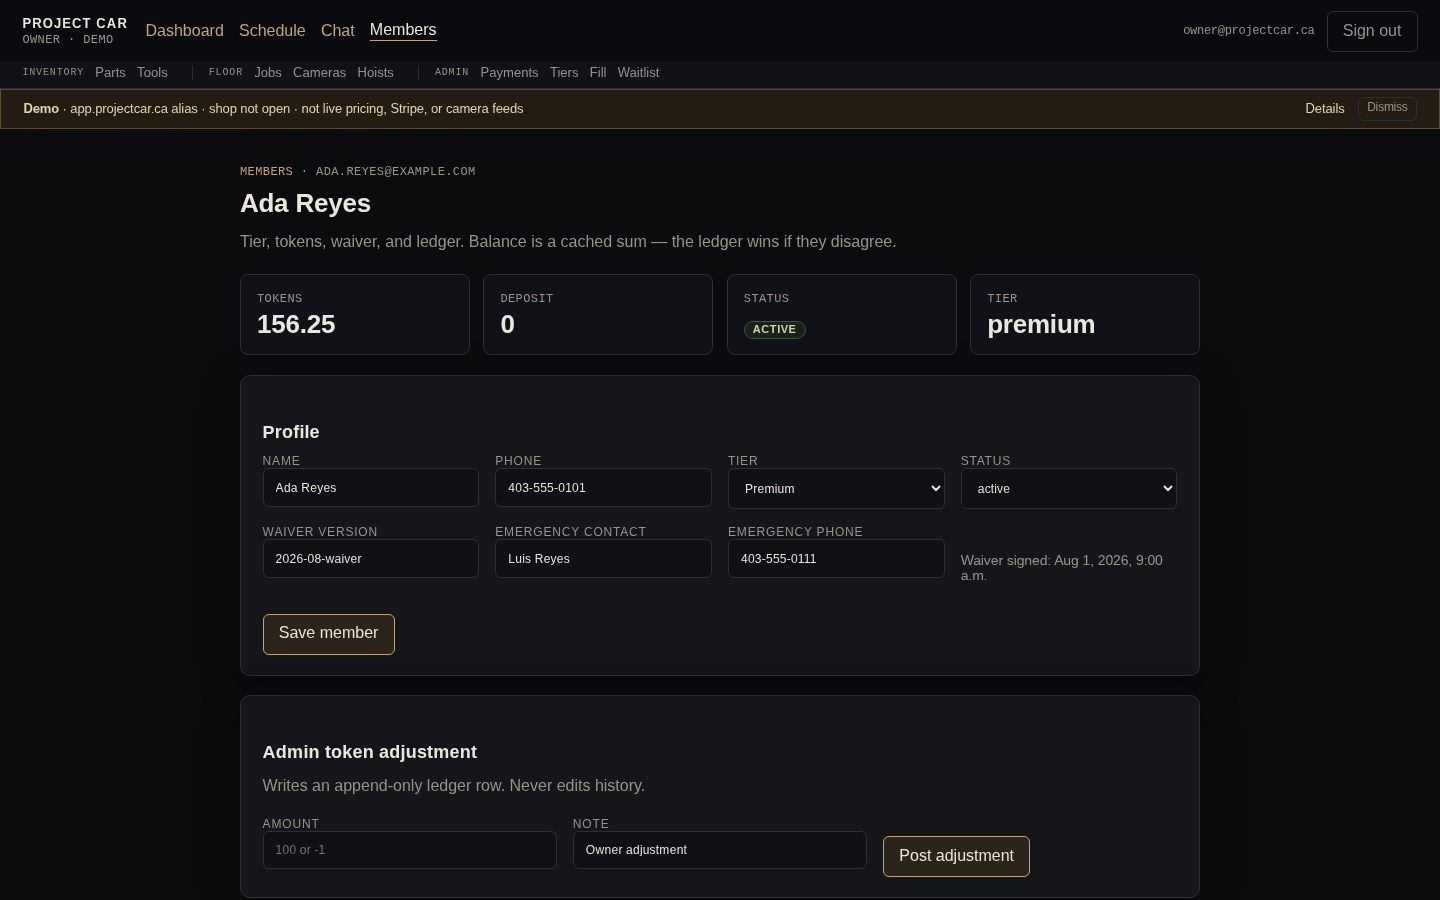
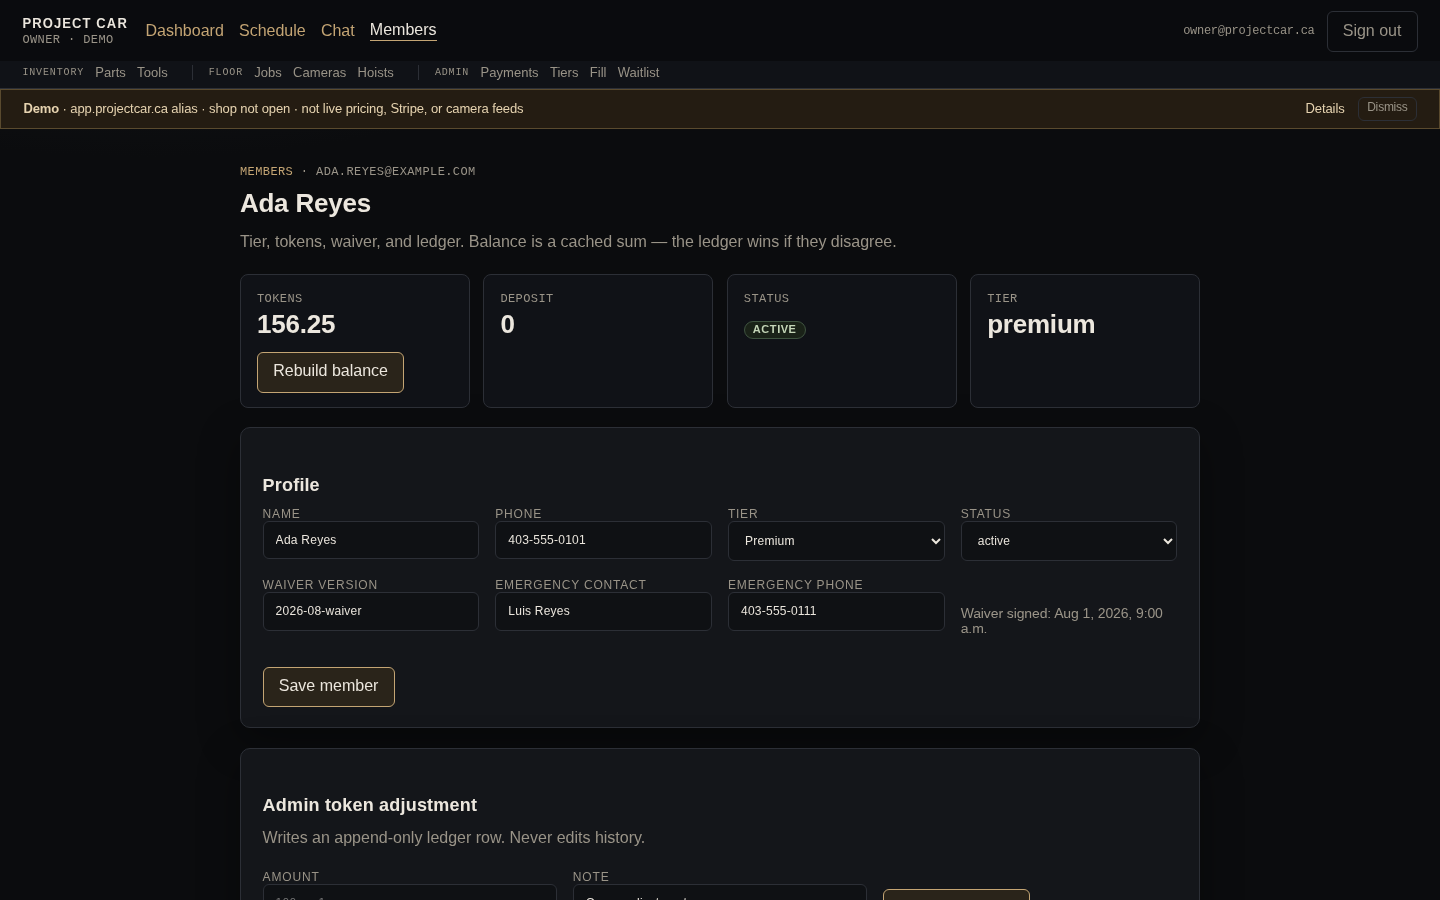
Rebuild member token balance from the ledger (#141)
* Add a failing test for the token balance rebuild route.

POST /members/{id}/tokens/rebuild is still missing, so a hand-edited cache stays off the ledger sum.

* Rebuild a member token balance from the ledger.

POST /members/{id}/tokens/rebuild sets the cached balance to the sum of that member's token transactions and inserts no ledger row. The member page offers Rebuild balance.

* Update member detail screenshots for Rebuild balance.

The member page shows the control at 390, 768, and 1440. Layout shift stays capped at 0.1 and the pixel cap stays at 1%.

---------

diff --git a/apps/project-car/web/app/members/actions.ts b/apps/project-car/web/app/members/actions.ts
@@ -4,7 +4,12 @@ import { revalidatePath } from "next/cache";
 import { redirect } from "next/navigation";
 
 import { ShopApiError } from "../../lib/config";
-import { adjustMemberTokens, createMember, patchMember } from "../../lib/shop-api";
+import {
+  adjustMemberTokens,
+  createMember,
+  patchMember,
+  rebuildMemberTokens,
+} from "../../lib/shop-api";
 
 function bounce(path: string, error: unknown): never {
   const message = error instanceof ShopApiError ? error.message : "Member update failed.";
@@ -60,6 +65,19 @@ export async function adjustTokensAction(formData: FormData): Promise<void> {
     bounce(`/members/${id}`, error);
   }
   revalidatePath(`/members/${id}`);
+  revalidatePath("/");
+  redirect(`/members/${id}`);
+}
+
+export async function rebuildTokensAction(formData: FormData): Promise<void> {
+  const id = String(formData.get("id") ?? "");
+  try {
+    await rebuildMemberTokens(id);
+  } catch (error) {
+    bounce(`/members/${id}`, error);
+  }
+  revalidatePath(`/members/${id}`);
+  revalidatePath("/members");
   revalidatePath("/");
   redirect(`/members/${id}`);
 }

diff --git a/apps/project-car/web/app/members/[id]/page.tsx b/apps/project-car/web/app/members/[id]/page.tsx
@@ -8,7 +8,7 @@ import { ShopApiError } from "../../../lib/config";
 import { handlePageError } from "../../../lib/page";
 import { getMe, getMember, listMemberTokens, listTiers } from "../../../lib/shop-api";
 import { formatShopDateTime, tokensLabel } from "../../../lib/time";
-import { adjustTokensAction, patchMemberAction } from "../actions";
+import { adjustTokensAction, patchMemberAction, rebuildTokensAction } from "../actions";
 
 export const dynamic = "force-dynamic";
 
@@ -44,6 +44,10 @@ export default async function MemberDetailPage({
           <div className="metric">
             <span className="eyebrow">Tokens</span>
             <b>{tokensLabel(member.token_balance)}</b>
+            <form action={rebuildTokensAction} className="actions" style={{ marginTop: "0.75rem" }}>
+              <input type="hidden" name="id" value={member.id} />
+              <button type="submit">Rebuild balance</button>
+            </form>
           </div>
           <div className="metric">
             <span className="eyebrow">Deposit</span>

diff --git a/apps/project-car/web/lib/shop-api.ts b/apps/project-car/web/lib/shop-api.ts
@@ -291,6 +291,12 @@ export async function adjustMemberTokens(id: string, amount: string, note: strin
   });
 }
 
+export async function rebuildMemberTokens(id: string): Promise<Member> {
+  return shopJson<Member>(`/members/${id}/tokens/rebuild`, "Could not rebuild the token balance.", {
+    method: "POST",
+  });
+}
+
 export async function listHoists(): Promise<Hoist[]> {
   return shopJson<Hoist[]>("/hoists", "Could not load hoists.");
 }

diff --git a/apps/project-car/api/tests/test_shop_os.py b/apps/project-car/api/tests/test_shop_os.py
@@ -64,6 +64,63 @@ def test_member_detail_and_admin_tokens(client: TestClient) -> None:
     assert float(refreshed.json()["token_balance"]) == 1498.5
 
 
+def test_rebuild_token_balance_route_matches_ledger(client: TestClient) -> None:
+    """A drifted cache is replaced by the ledger sum, and rebuild inserts no row."""
+    from decimal import Decimal
+    from uuid import UUID
+
+    from app.models import Member
+
+    member = create_member(client)
+    member_id = member["id"]
+    adjusted = client.post(
+        f"/members/{member_id}/tokens",
+        headers=AUTH,
+        json={"amount": "-1.5", "note": "Owner correction"},
+    )
+    assert adjusted.status_code == 201, adjusted.text
+
+    ledger_before = client.get(f"/members/{member_id}/tokens", headers=AUTH)
+    assert ledger_before.status_code == 200, ledger_before.text
+    rows_before = ledger_before.json()
+    ledger_sum = sum((Decimal(str(row["amount"])) for row in rows_before), Decimal("0"))
+    assert ledger_sum == Decimal("1498.5")
+    ledger_ids = [row["id"] for row in rows_before]
+
+    session = client.session_factory()  # type: ignore[attr-defined]
+    try:
+        row = session.get(Member, UUID(member_id))
+        assert row is not None
+        row.token_balance = Decimal("1.00")
+        session.commit()
+    finally:
+        session.close()
+
+    drifted = client.get(f"/members/{member_id}", headers=AUTH)
+    assert drifted.status_code == 200, drifted.text
+    assert Decimal(str(drifted.json()["token_balance"])) == Decimal("1.00")
+
+    rebuilt = client.post(f"/members/{member_id}/tokens/rebuild", headers=AUTH)
+    cache_after = client.get(f"/members/{member_id}", headers=AUTH).json()["token_balance"]
+    assert rebuilt.status_code == 200, (
+        f"{rebuilt.status_code} {rebuilt.text}; hand-edited cache stays {cache_after}"
+    )
+    assert Decimal(str(rebuilt.json()["token_balance"])) == ledger_sum
+    assert Decimal(str(cache_after)) == ledger_sum
+
+    ledger_after = client.get(f"/members/{member_id}/tokens", headers=AUTH)
+    assert ledger_after.status_code == 200, ledger_after.text
+    assert [row["id"] for row in ledger_after.json()] == ledger_ids
+
+    again = client.post(f"/members/{member_id}/tokens/rebuild", headers=AUTH)
+    assert again.status_code == 200, again.text
+    assert Decimal(str(again.json()["token_balance"])) == ledger_sum
+    stayed = client.get(f"/members/{member_id}", headers=AUTH)
+    assert Decimal(str(stayed.json()["token_balance"])) == ledger_sum
+    ledger_final = client.get(f"/members/{member_id}/tokens", headers=AUTH)
+    assert [row["id"] for row in ledger_final.json()] == ledger_ids
+
+
 def test_hoist_status_patch(client: TestClient) -> None:
     hoist = create_hoist(client, name="Bay 3")
     patched = client.patch(

diff --git a/apps/project-car/api/app/routers/members.py b/apps/project-car/api/app/routers/members.py
@@ -23,7 +23,7 @@ from app.schemas import (
     TokenTransactionOut,
 )
 from app.services.staff import reject_ai
-from app.services.tokens import apply_ledger
+from app.services.tokens import apply_ledger, rebuild_token_balance
 
 router = APIRouter(tags=["members"])
 
@@ -185,3 +185,13 @@ def adjust_member_tokens(
     session.flush()
     session.refresh(row)
     return TokenTransactionOut.model_validate(row)
+
+
+@router.post("/members/{member_id}/tokens/rebuild", response_model=MemberOut)
+def rebuild_member_tokens(member_id: UUID, session: DbSession, _owner: Owner) -> MemberOut:
+    """Set the cached balance from the ledger sum. Inserts no ledger row."""
+    member = _member_or_404(session, member_id)
+    rebuild_token_balance(session, member)
+    session.flush()
+    session.refresh(member)
+    return MemberOut.model_validate(member)

diff --git a/apps/project-car/api/app/services/tokens.py b/apps/project-car/api/app/services/tokens.py
@@ -1,4 +1,9 @@
-"""Append-only token ledger. Never change member.token_balance without a row."""
+"""Append-only token ledger.
+
+apply_ledger is the writer that inserts a token_transactions row and moves the
+cache by that amount. rebuild_token_balance only sets the cache from the ledger
+sum and inserts no row.
+"""
 
 from __future__ import annotations
 
